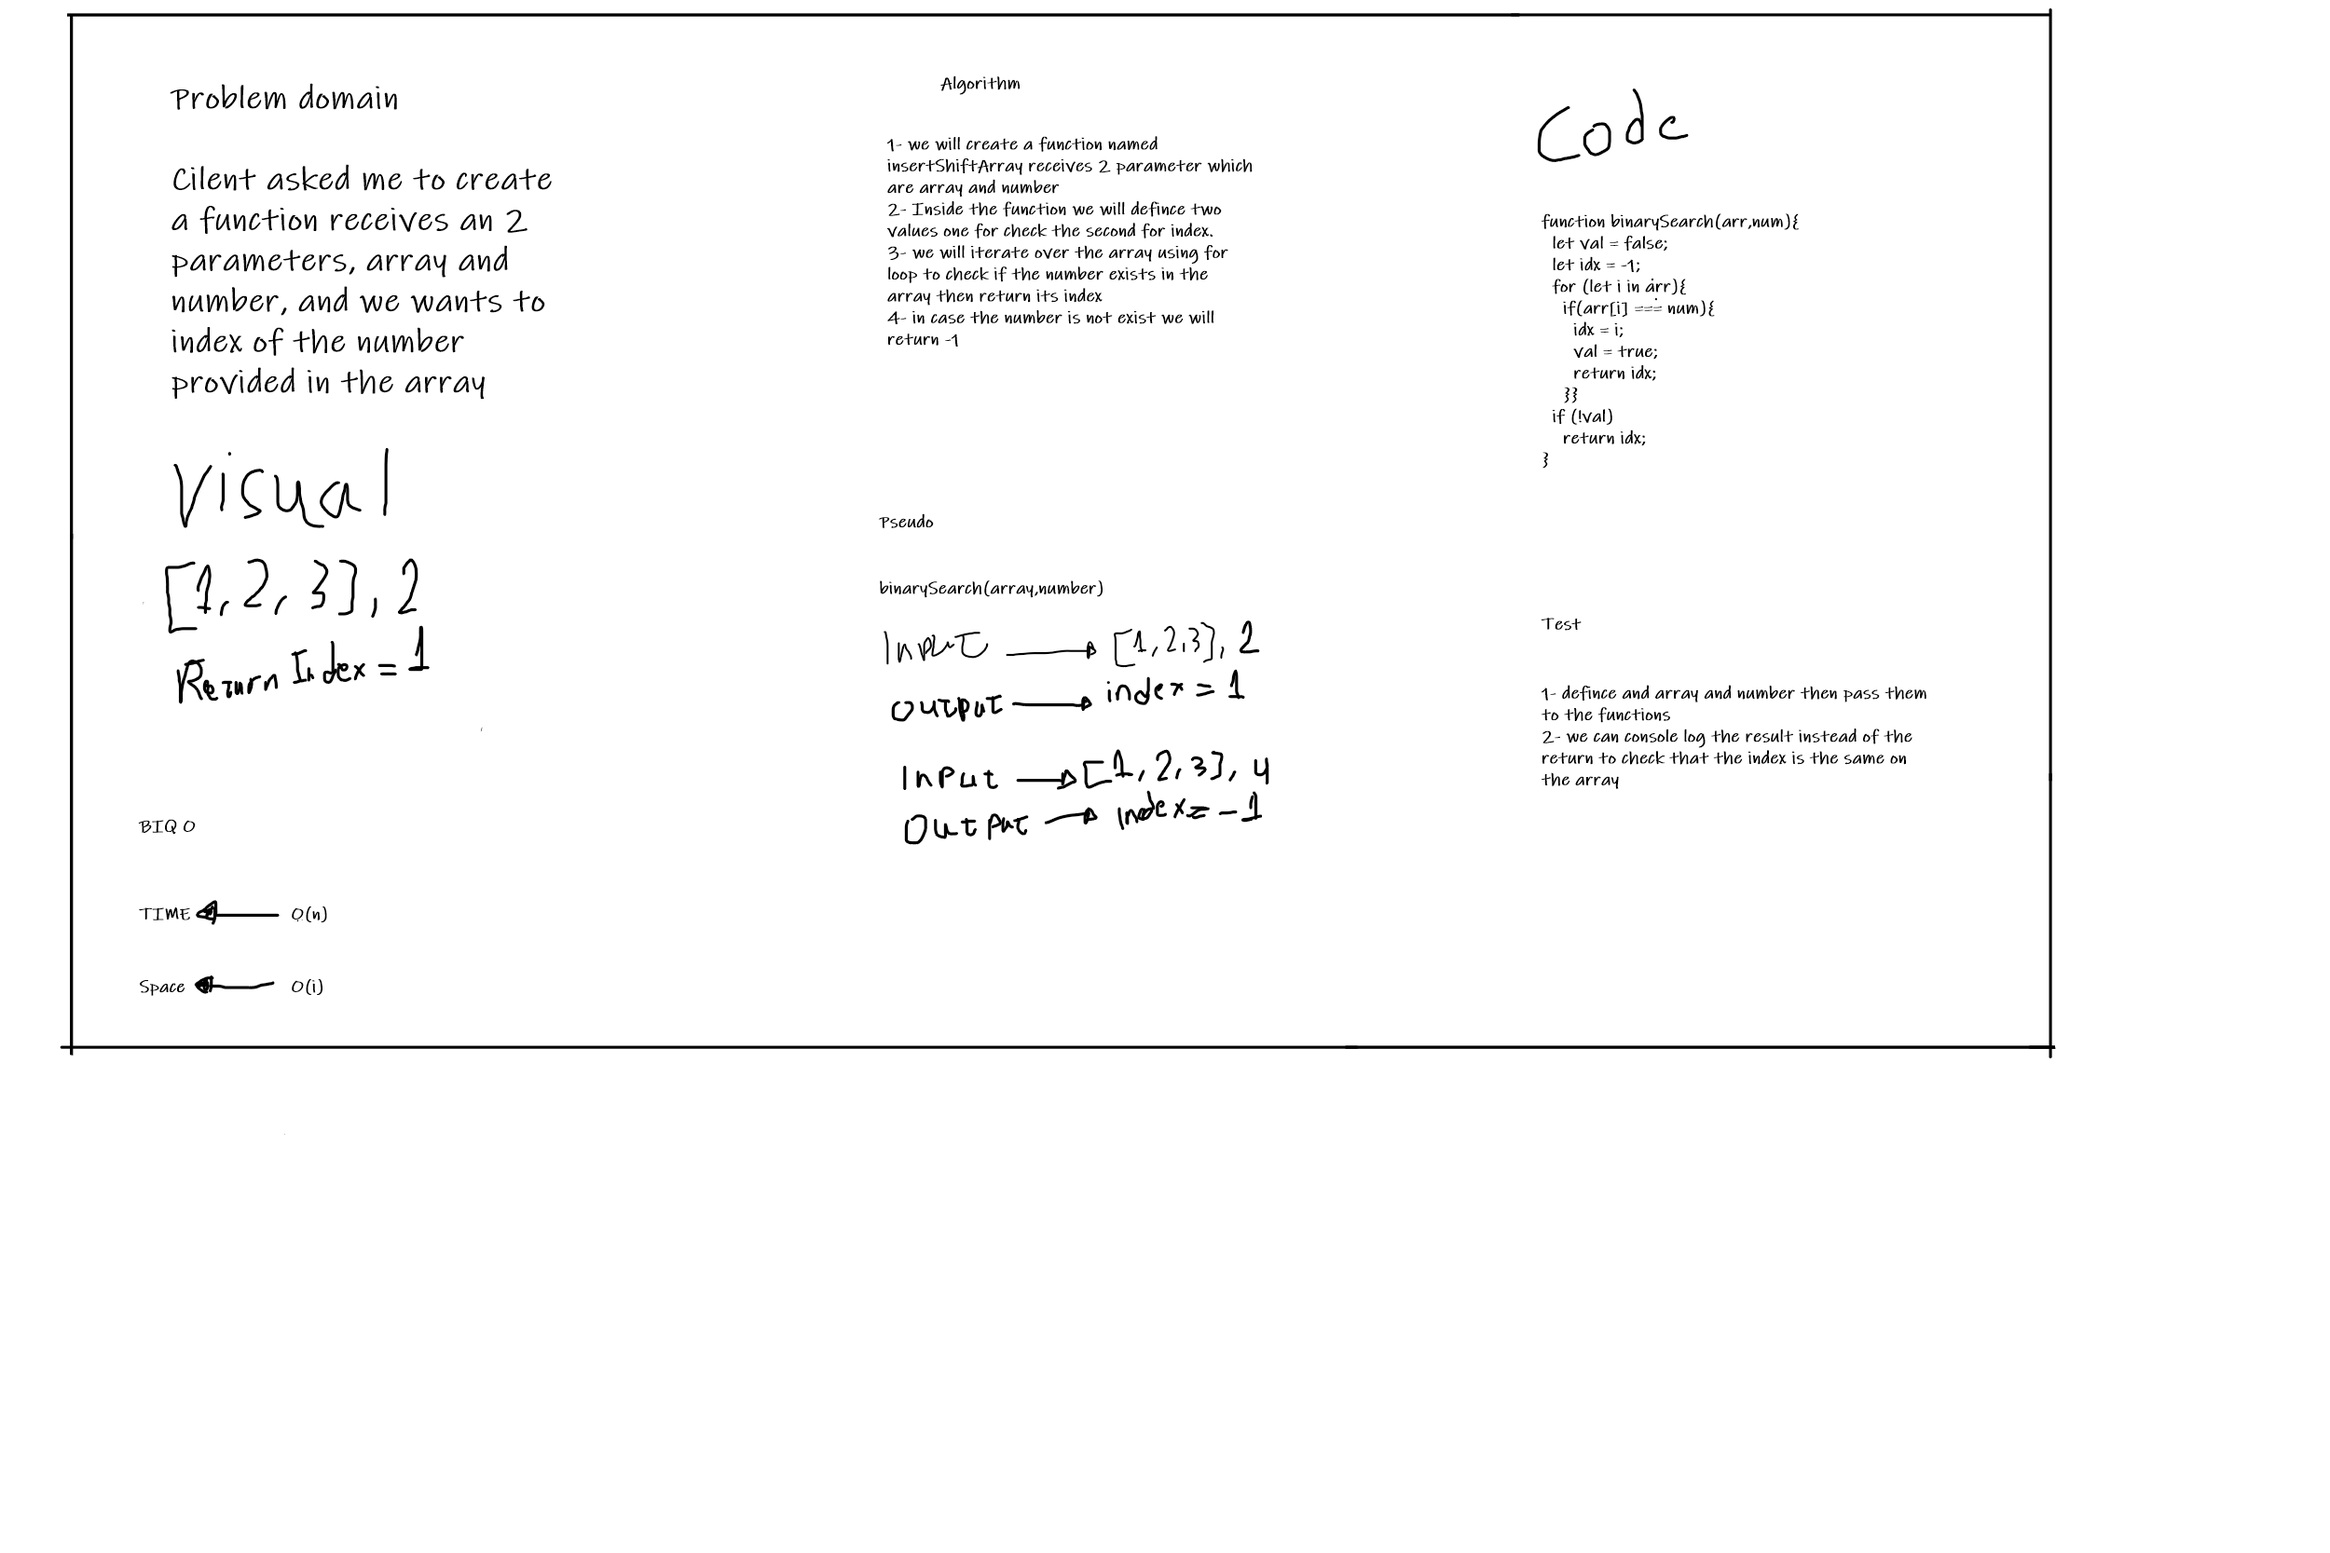
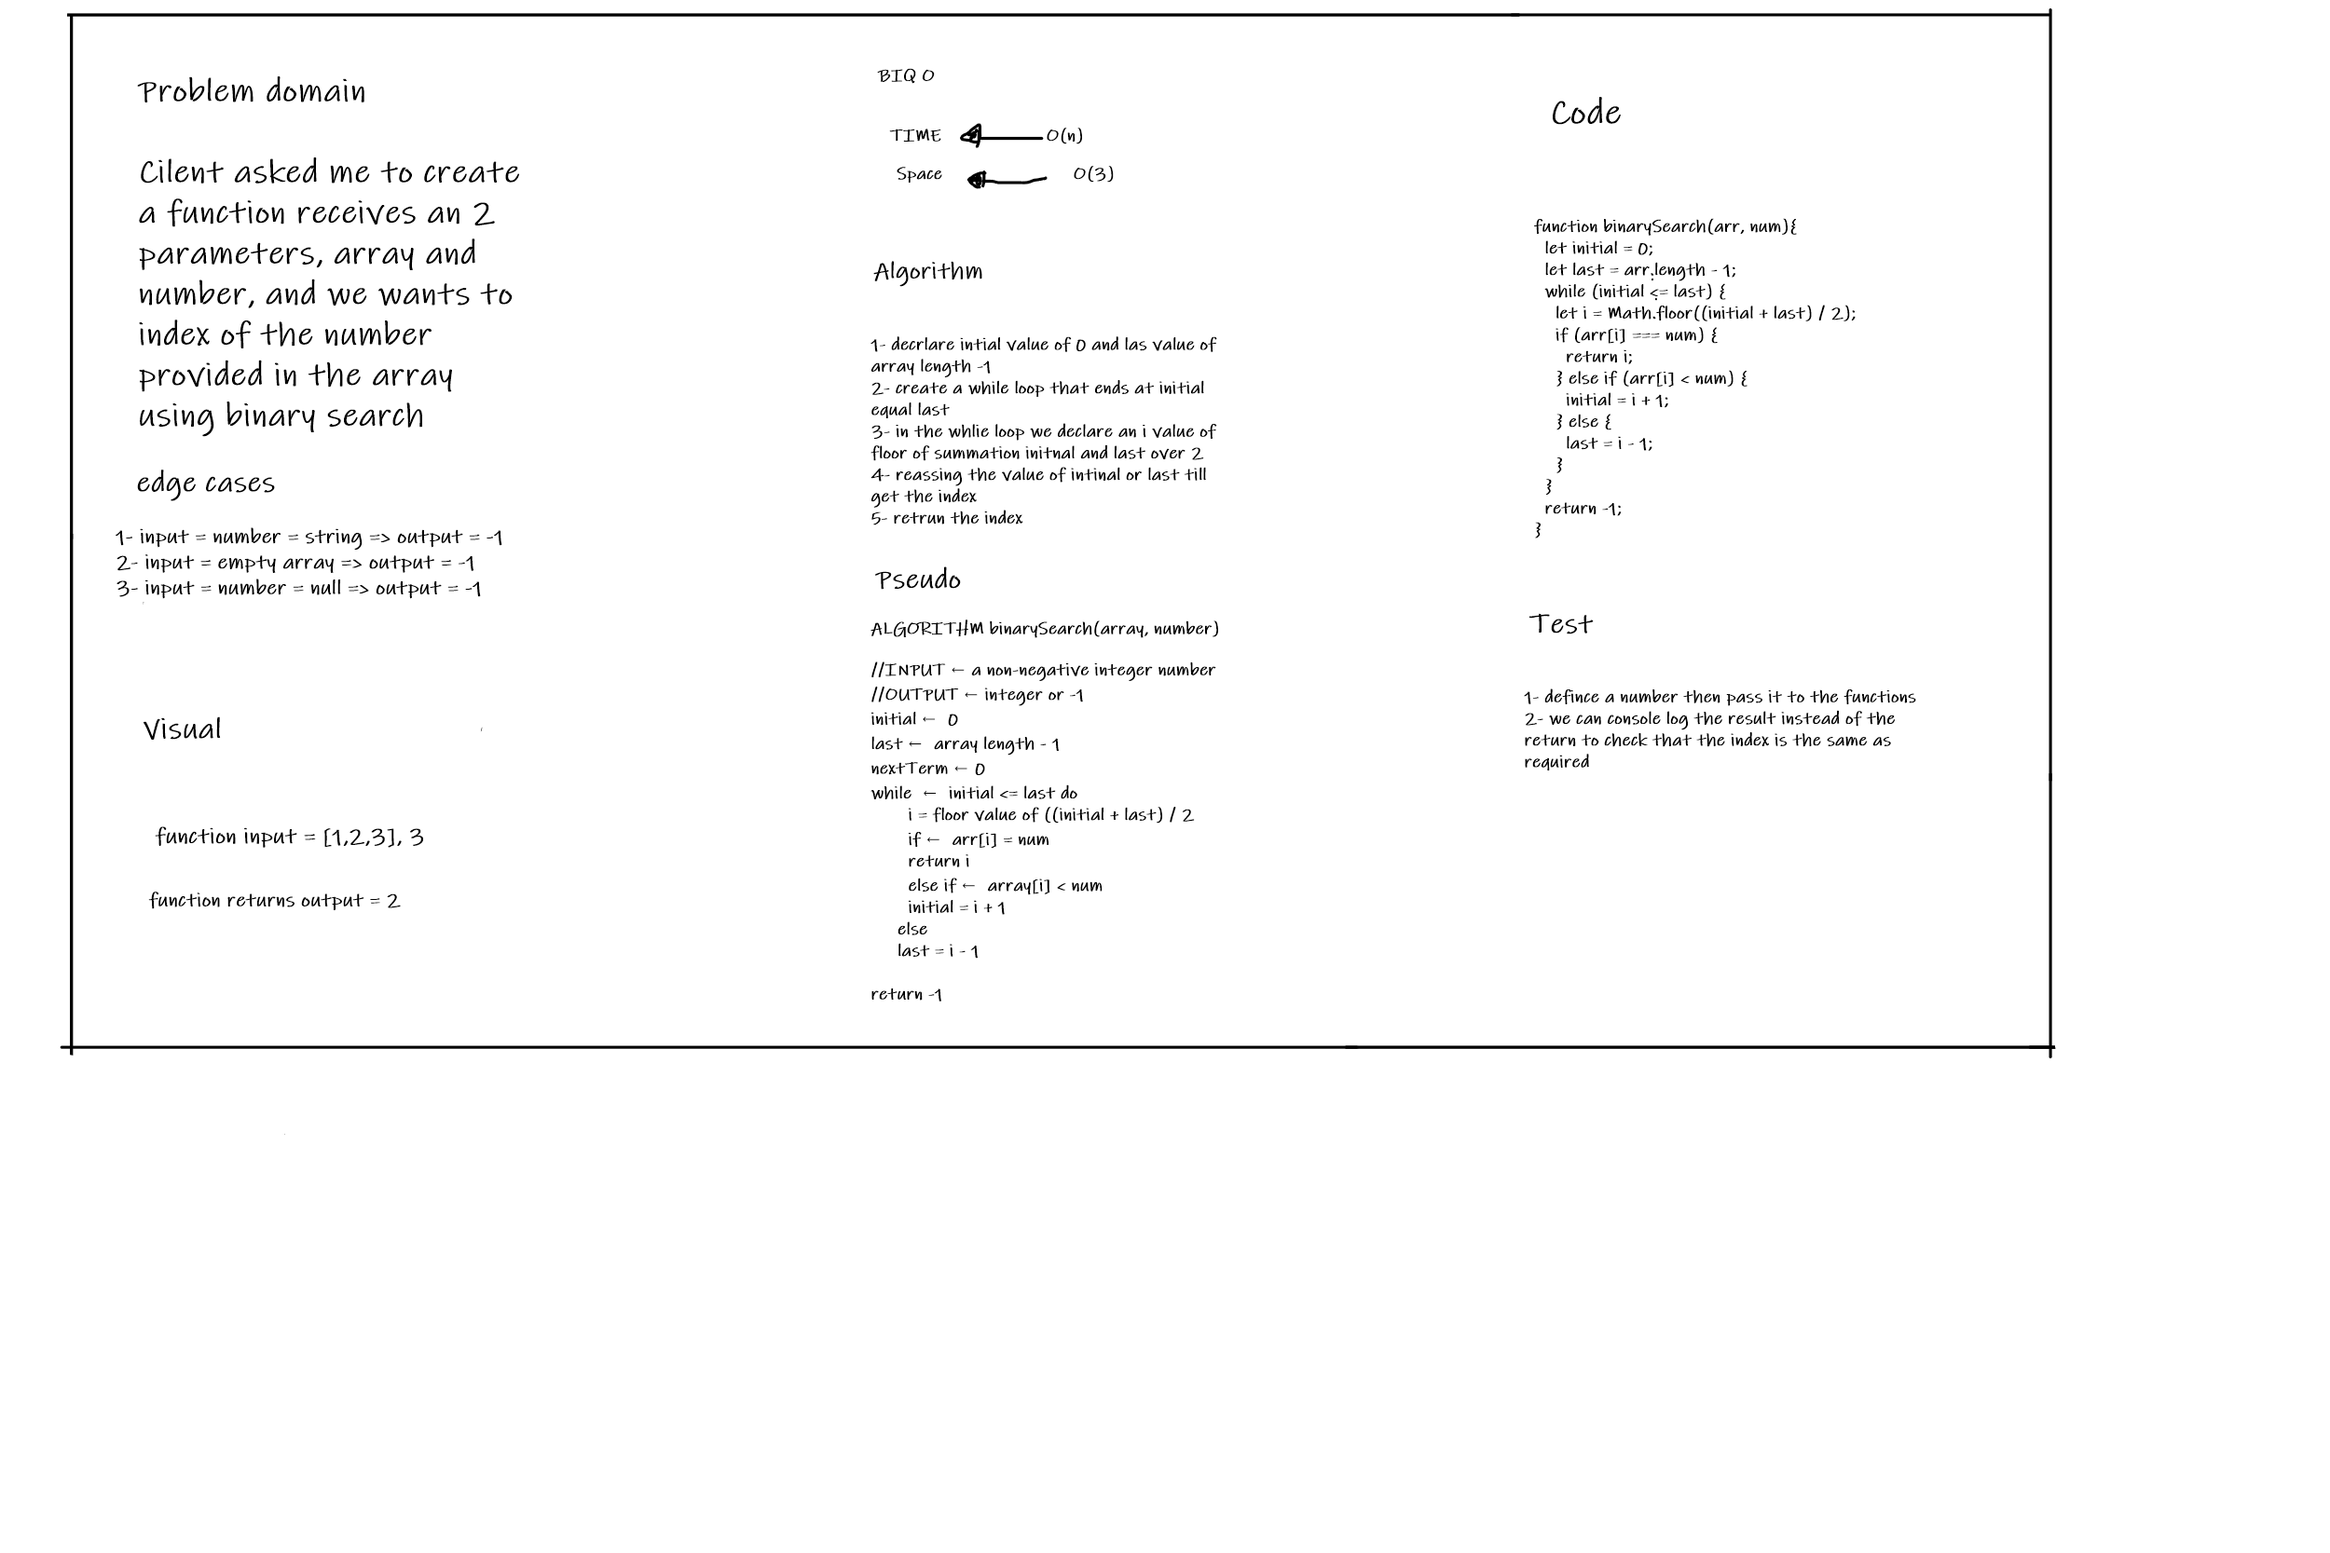
fixing array-binary-search function

diff --git a/javascript/code-challenges/array-binary-search/array-binary-search.js b/javascript/code-challenges/array-binary-search/array-binary-search.js
@@ -1,14 +1,18 @@
-function binarySearch(arr,num){
-  let val = false;
-  let idx = -1;
-  for (let i in arr){
-    if(arr[i] === num){
-      idx = i;
-      val = true;
-      return idx;
-    }}
-  if (!val)
-    return idx;
+function binarySearch(arr, num){
+  let initial = 0;
+  let last = arr.length - 1;
+  while (initial <= last) {
+    let i = Math.floor((initial + last) / 2);
+    if (arr[i] === num) {
+      return i;
+    } else if (arr[i] < num) {
+      initial = i + 1;
+    } else {
+      last = i - 1;
+    }
+  }
+  return -1;
 }
+
 module.exports = binarySearch;
 

diff --git a/javascript/code-challenges/array-binary-search/__tests__/array-binary-search.test.js b/javascript/code-challenges/array-binary-search/__tests__/array-binary-search.test.js
@@ -4,7 +4,7 @@ const fn = require ('../array-binary-search');
 
 describe('Array Binary Search', () => {
   it('must return the index of the insetred number',() => {
-    expect(fn([1,2,3,4,5],2)).toStrictEqual('1');
+    expect(fn([1,2,3,4,5],2)).toStrictEqual(1);
   });
 });
 
